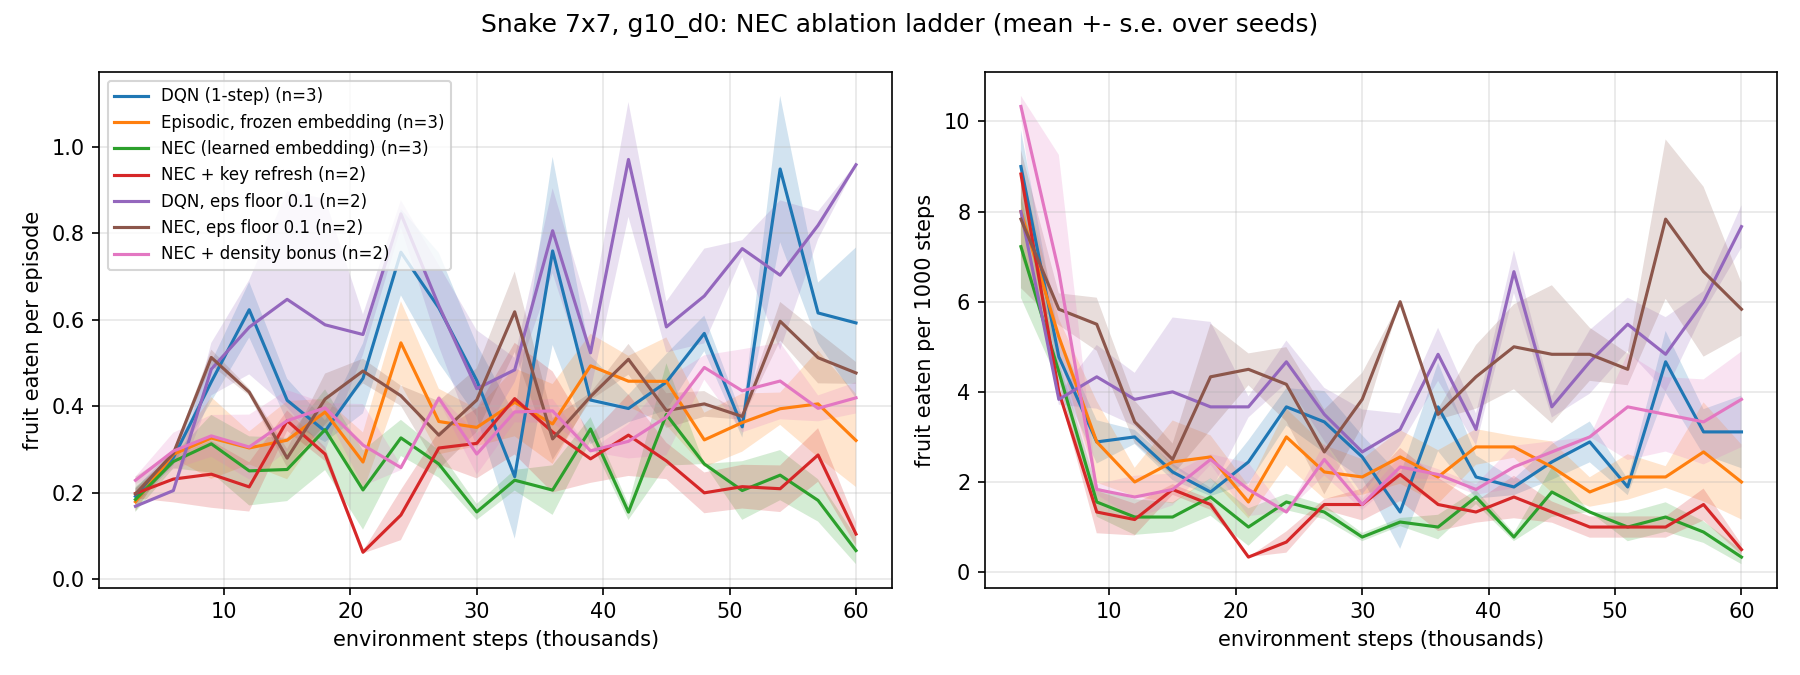
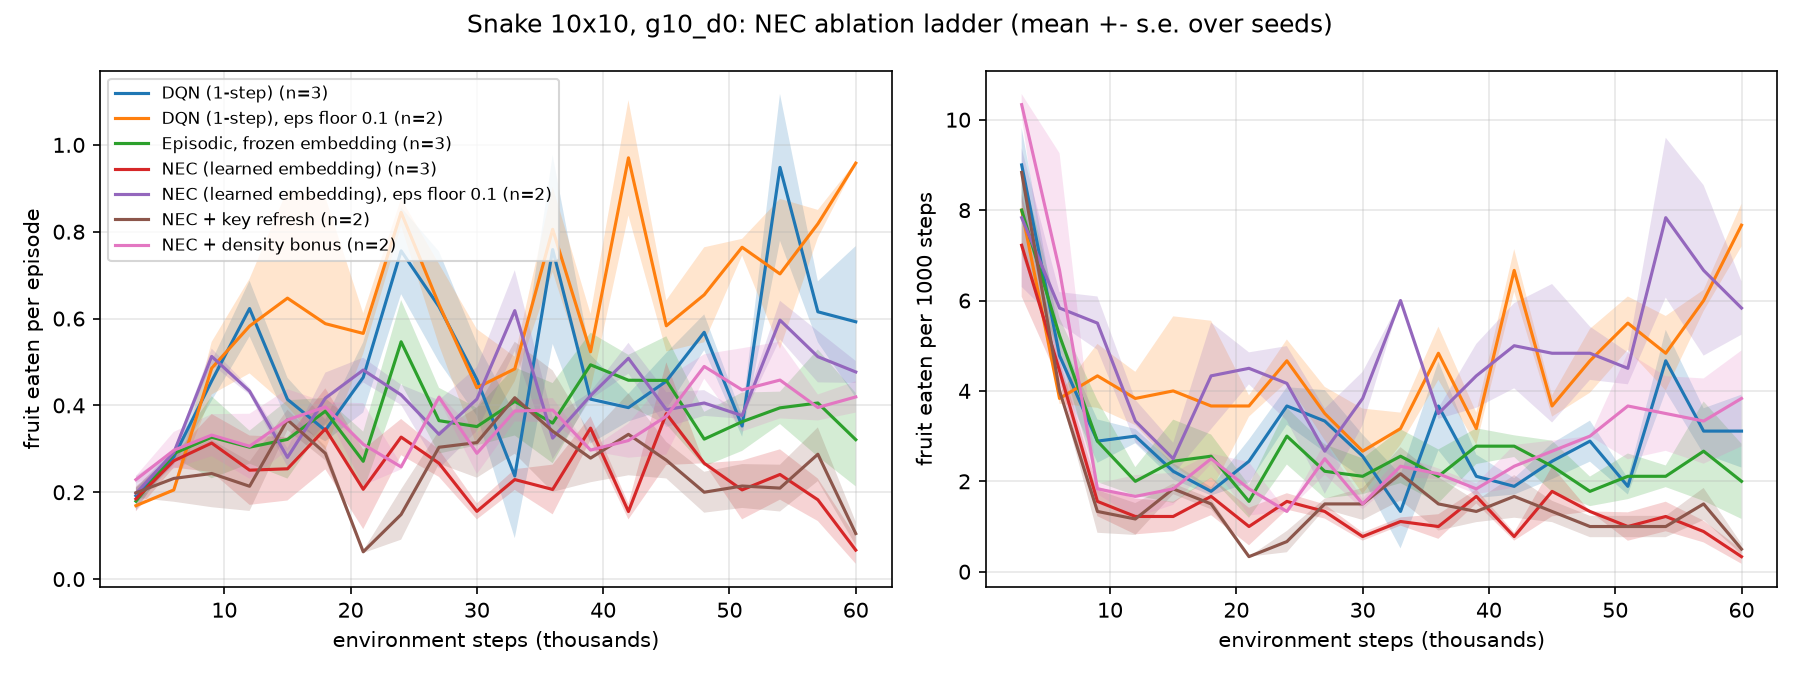
Replace _eps10 agent-name suffix with an explicit --eps-floor option
The epsilon floor is a run setting, not part of the agent, so it no
longer rides on the agent name. snake-run takes --eps-floor, the JSON
records eps_floor, and a non-default floor is tagged in the filename
(nec_eps0.1_s1.json). snake-plot groups runs by (agent, eps_floor).
The four existing *_eps10 results are migrated to the new naming; their
episodes are unchanged.

diff --git a/src/snake_rl/plot.py b/src/snake_rl/plot.py
@@ -12,12 +12,18 @@ import matplotlib
 matplotlib.use("Agg")
 import matplotlib.pyplot as plt
 
+from snake_rl.run import EPS_FLOOR
+
 # Legend names, also the plotting order. Agents not listed here are plotted after these, under their raw name.
+# Runs are grouped by (agent, eps_floor); a non-default floor is appended to the label.
 LABELS = {"dqn": "DQN (1-step)", "dqn_nstep": "DQN (N-step)",
           "ec_frozen": "Episodic, frozen embedding", "nec": "NEC (learned embedding)",
-          "nec_refresh": "NEC + key refresh",
-          "dqn_eps10": "DQN, eps floor 0.1", "nec_eps10": "NEC, eps floor 0.1",
-          "nec_bonus": "NEC + density bonus"}
+          "nec_refresh": "NEC + key refresh", "nec_bonus": "NEC + density bonus"}
+
+
+def label(agent, eps_floor):
+    name = LABELS.get(agent, agent)
+    return name if eps_floor == EPS_FLOOR else f"{name}, eps floor {eps_floor:g}"
 
 
 def curve(episodes, edges, rate=False):
@@ -46,7 +52,8 @@ def main(DIR="results/d0", out_dir="figures"):
     for f in files:
         d = json.load(open(f))
         if d["steps"] == STEPS:
-            data.setdefault(d["agent"], []).append(
+            key = (d["agent"], d.get("eps_floor", EPS_FLOOR))
+            data.setdefault(key, []).append(
                 (curve(d["episodes"], edges), curve(d["episodes"], edges, True), d["wallclock_s"]))
         else:
             print(f"skipping {f}: {d['steps']} steps != {STEPS}")
@@ -54,18 +61,19 @@ def main(DIR="results/d0", out_dir="figures"):
     fig, axes = plt.subplots(1, 2, figsize=(12, 4.5))
     x = edges[1:] / 1000
     tables = {0: [], 1: []}
-    for name in [n for n in LABELS if n in data] + sorted(set(data) - set(LABELS)):
-        label = LABELS.get(name, name)
+    order = list(LABELS)
+    for key in sorted(data, key=lambda k: (order.index(k[0]) if k[0] in LABELS else len(order), k)):
+        lab = label(*key)
         for k, ax in enumerate(axes):
-            C = np.stack([run[k] for run in data[name]])
+            C = np.stack([run[k] for run in data[key]])
             mu, se = np.nanmean(C, 0), np.nanstd(C, 0) / np.sqrt(len(C))
-            ax.plot(x, mu, label=f"{label} (n={len(C)})")
+            ax.plot(x, mu, label=f"{lab} (n={len(C)})")
             ax.fill_between(x, mu - se, mu + se, alpha=0.2)
             marks = []
             for lo, hi in [(0, STEPS // 8), (STEPS // 8, STEPS // 4), (STEPS // 4, STEPS // 2), (STEPS // 2, STEPS)]:
                 per_seed = np.nanmean(C[:, (edges[1:] > lo) & (edges[1:] <= hi)], 1)
                 marks.append((per_seed.mean(), per_seed.std() / np.sqrt(len(per_seed))))
-            tables[k].append((label, marks, np.mean([r[2] for r in data[name]])))
+            tables[k].append((lab, marks, np.mean([r[2] for r in data[key]])))
     axes[0].set_ylabel("fruit eaten per episode")
     axes[1].set_ylabel("fruit eaten per 1000 steps")
     for ax in axes:
@@ -78,11 +86,12 @@ def main(DIR="results/d0", out_dir="figures"):
     os.makedirs(out_dir, exist_ok=True)
     fig.savefig(f"{out_dir}/learning_curves_{tag}.png", dpi=150)
 
+    w0 = max(30, *(len(lab) for lab, _, _ in tables[0]))
     for k, title in [(0, "fruit / episode"), (1, "fruit / 1000 steps")]:
         print(f"\n{title}")
-        print(f"{'agent':30s} {'1st 1/8':>12} {'2nd 1/8':>12} {'2nd 1/4':>12} {'2nd 1/2':>12} {'wall s':>7}")
+        print(f"{'agent':{w0}s} {'1st 1/8':>12} {'2nd 1/8':>12} {'2nd 1/4':>12} {'2nd 1/2':>12} {'wall s':>7}")
         for lab, m, w in tables[k]:
-            print(f"{lab:30s} " + " ".join(f"{a:6.2f}±{b:4.2f}" for a, b in m) + f" {w:7.0f}")
+            print(f"{lab:{w0}s} " + " ".join(f"{a:6.2f}±{b:4.2f}" for a, b in m) + f" {w:7.0f}")
 
 
 def cli():

diff --git a/src/snake_rl/run.py b/src/snake_rl/run.py
@@ -1,8 +1,8 @@
 """Run one (agent, seed) and save per-episode scores.
 
-usage: snake-run <agent> <seed> <steps> [n_distractor_channels] [grid_size]
+usage: snake-run <agent> <seed> <steps> [n_distractor_channels] [grid_size] [--eps-floor F]
        (or: python -m snake_rl.run ...)
-agents: see snake_rl.agents.AGENTS  (suffix _eps10: epsilon floor 0.1)
+agents: see snake_rl.agents.AGENTS
 """
 import argparse
 import json
@@ -15,22 +15,30 @@ from snake_rl.agents import AGENTS, make_agent
 from snake_rl.env import Snake
 
 
-def epsilon(t, decay=5000, floor=0.02):
+EPS_FLOOR = 0.02
+
+
+def epsilon(t, decay=5000, floor=EPS_FLOOR):
     return max(floor, 1.0 - t / decay)
+
+
+def run_name(name, eps_floor=EPS_FLOOR):
+    """Result file stem (minus seed): the agent name, tagged with any non-default run settings."""
+    return name if eps_floor == EPS_FLOOR else f"{name}_eps{eps_floor:g}"
 
 
 def results_dir(D, size, root="results"):
     return f"{root}/d{D}" if size == 7 else f"{root}/g{size}_d{D}"
 
 
-def main(name, seed, steps, D=0, size=7, root="results"):
+def main(name, seed, steps, D=0, size=7, root="results", eps_floor=EPS_FLOOR):
     rng = np.random.default_rng(seed)
     env = Snake(size=size, seed=seed + 1000, distractors=D)
     agent = make_agent(name, env, rng)
     obs = env.reset()
     log, diag, t0 = [], [], time.time()
     for t in range(1, steps + 1):
-        a = agent.act(obs, epsilon(t, floor=0.1 if name.endswith("_eps10") else 0.02), t)
+        a = agent.act(obs, epsilon(t, floor=eps_floor), t)
         nobs, r, term, trunc = env.step(a)
         agent.observe(obs, a, r, nobs, term, trunc, t)
         obs = nobs
@@ -39,25 +47,27 @@ def main(name, seed, steps, D=0, size=7, root="results"):
             obs = env.reset()
         if t % 6000 == 0 and hasattr(agent, "diagnostics"):
             diag.append((t, agent.diagnostics()))
-    out = {"agent": name, "seed": seed, "steps": steps, "distractors": D, "size": size, "episodes": log, "diagnostics": diag,
+    out = {"agent": name, "seed": seed, "steps": steps, "distractors": D, "size": size,
+           "eps_floor": eps_floor, "episodes": log, "diagnostics": diag,
            "wallclock_s": time.time() - t0}
     out_dir = results_dir(D, size, root)
     os.makedirs(out_dir, exist_ok=True)
-    with open(f"{out_dir}/{name}_s{seed}.json", "w") as f:
+    with open(f"{out_dir}/{run_name(name, eps_floor)}_s{seed}.json", "w") as f:
         json.dump(out, f)
-    print(name, seed, f"{len(log)} eps, {time.time()-t0:.0f}s")
+    print(run_name(name, eps_floor), seed, f"{len(log)} eps, {time.time()-t0:.0f}s")
 
 
 def cli():
     ap = argparse.ArgumentParser(description=__doc__.splitlines()[0])
-    ap.add_argument("agent", help=f"one of {sorted(AGENTS)}, optionally with suffix _eps10")
+    ap.add_argument("agent", help=f"one of {sorted(AGENTS)}")
     ap.add_argument("seed", type=int)
     ap.add_argument("steps", type=int)
     ap.add_argument("distractors", type=int, nargs="?", default=0, help="extra noise channels")
     ap.add_argument("size", type=int, nargs="?", default=7, help="grid size")
+    ap.add_argument("--eps-floor", type=float, default=EPS_FLOOR, help="final epsilon after the decay")
     ap.add_argument("--results", default="results", help="results root directory")
     a = ap.parse_args()
-    main(a.agent, a.seed, a.steps, a.distractors, a.size, a.results)
+    main(a.agent, a.seed, a.steps, a.distractors, a.size, a.results, a.eps_floor)
 
 
 if __name__ == "__main__":

diff --git a/src/snake_rl/agents/__init__.py b/src/snake_rl/agents/__init__.py
@@ -2,7 +2,6 @@
 
 To add an agent, implement the `Agent` interface (see base.py) in a new module and
 register it in AGENTS (and in plot.LABELS for a nicer legend name).
-Any name may be given the suffix `_eps10` at run time to raise the epsilon floor to 0.1.
 """
 from snake_rl.agents.base import Agent
 from snake_rl.agents.dqn import DQNAgent
@@ -23,10 +22,9 @@ AGENTS = {
 
 
 def make_agent(name, env, rng) -> Agent:
-    base = name.removesuffix("_eps10")
-    if base not in AGENTS:
+    if name not in AGENTS:
         raise ValueError(f"unknown agent {name!r}; choose from {sorted(AGENTS)}")
-    return AGENTS[base](env, rng)
+    return AGENTS[name](env, rng)
 
 
 __all__ = ["Agent", "AGENTS", "make_agent", "DQNAgent", "NECAgent"]

diff --git a/tests/test_core.py b/tests/test_core.py
@@ -62,6 +62,9 @@ def test_agent_runs(name):
 
 
 def test_run_writes_results(tmp_path):
-    main("dqn_eps10", 3, 500, D=1, size=6, root=str(tmp_path))
-    d = json.load(open(tmp_path / "g6_d1" / "dqn_eps10_s3.json"))
-    assert d["agent"] == "dqn_eps10" and d["steps"] == 500 and d["episodes"]
+    main("dqn", 3, 500, D=1, size=6, root=str(tmp_path))
+    d = json.load(open(tmp_path / "g6_d1" / "dqn_s3.json"))
+    assert d["agent"] == "dqn" and d["steps"] == 500 and d["eps_floor"] == 0.02 and d["episodes"]
+    main("dqn", 3, 500, D=1, size=6, root=str(tmp_path), eps_floor=0.1)
+    d = json.load(open(tmp_path / "g6_d1" / "dqn_eps0.1_s3.json"))
+    assert d["agent"] == "dqn" and d["eps_floor"] == 0.1

diff --git a/CLAUDE.md b/CLAUDE.md
@@ -24,7 +24,7 @@ Sweeps are plain shell loops over `snake-run`. Their stdout goes in `logs/`, and
 
 ## Architecture
 
-- **Adding an agent:** write a class that satisfies the `Agent` protocol in `agents/base.py` (`act(obs, eps, t)` and `observe(obs, a, r, next_obs, term, trunc, t)`, plus an optional `diagnostics()`). Register a factory `(env, rng) -> agent` in `AGENTS` in `agents/__init__.py`. Variants such as `nec_refresh` are just constructor flags in the registry, not subclasses. The `_eps10` suffix is handled generically: `make_agent` strips it, and `run.py` raises the epsilon floor. `plot.LABELS` sets legend names and plotting order. Unlisted agents are still plotted, under their raw name. `tests/test_core.py::test_agent_runs` automatically smoke-tests every registered agent.
+- **Adding an agent:** write a class that satisfies the `Agent` protocol in `agents/base.py` (`act(obs, eps, t)` and `observe(obs, a, r, next_obs, term, trunc, t)`, plus an optional `diagnostics()`). Register a factory `(env, rng) -> agent` in `AGENTS` in `agents/__init__.py`. Variants such as `nec_refresh` are just constructor flags in the registry, not subclasses. Run settings that are not part of the agent itself (currently `--eps-floor`) belong in `run.py`, not in the agent name. `run.py` stores them in the JSON, and `run_name` tags them in the filename. `plot.py` groups runs by `(agent, eps_floor)`. `plot.LABELS` sets legend names and plotting order. Unlisted agents are still plotted, under their raw name. `tests/test_core.py::test_agent_runs` automatically smoke-tests every registered agent.
 - `run.py` owns the training loop. It owns the epsilon schedule (1 → floor over 5k steps), the RNG seeding (agent rng = `seed`, env rng = `seed + 1000`), episode logging as `(t, score)`, and `diagnostics()` every 6000 steps. Exploration happens inside `agent.act`, so the order in which an agent draws from `rng` determines reproducibility.
 - `nn.py`: `MLP.backward` uses the activations cached by the most recent `forward`, so never call `forward` again between a forward and its backward. NEC's `act` caches the embedding in `self._h` for `observe`, so those two calls must stay paired.
 - `returns.py`: `NStep` produces `(payload, G, boot_obs, disc)` tuples, and every agent forms its target as `G + disc * max Q(boot_obs)`. `disc=0` only on true termination. Truncation still bootstraps.
@@ -35,7 +35,7 @@ Sweeps are plain shell loops over `snake-run`. Their stdout goes in `logs/`, and
   - `refresh_every` stores the raw observations behind each key so that all keys can be re-embedded.
   - `bonus_beta` changes only action selection.
 - `env.py`: the observation is flattened `(3 + D) × n × n` binary channels (head, body, food, then D channels of i.i.d. noise resampled every step). Actions are relative (straight, right, left). An episode is truncated after `2·n²` steps without eating.
-- Results JSON carries `agent`, `seed`, `steps`, `distractors`, `size`, `episodes`, `diagnostics`, and `wallclock_s`. The output directory is `results/d{D}` for 7×7 grids, otherwise `results/g{size}_d{D}`. Older JSONs in `results/d0` and `results/d4` lack `distractors` and `size`.
+- Results JSON carries `agent`, `seed`, `steps`, `distractors`, `size`, `eps_floor`, `episodes`, `diagnostics`, and `wallclock_s`. The output directory is `results/d{D}` for 7×7 grids, otherwise `results/g{size}_d{D}`. Older JSONs may lack `distractors`, `size`, or `eps_floor`. Readers fall back to 0, 7, and 0.02 respectively.
 
 ## Gotchas
 

diff --git a/README.md b/README.md
@@ -44,6 +44,7 @@ kd-trees, Adam/SGD instead of RMSProp, N=50 instead of 100, DND capacity 2e4 per
 - 4th/5th run args: distractor channels, grid size (results/d{D} for 7x7, results/g{size}_d{D} otherwise).
 - `nec_refresh`: re-embeds all DND keys with the current encoder every 1000 steps (not in paper).
 - `nec_bonus`: density bonus beta*log(dbar_a / min_b dbar_b) when acting (not in paper).
-- suffix `_eps10`: epsilon floor 0.1 instead of 0.02.
+- `--eps-floor F`: final epsilon (default 0.02). A non-default floor is recorded as `eps_floor` in the JSON,
+  tagged in the filename (`nec_eps0.1_s1.json`) and in the plot label.
 - NEC runs log per-action DND diagnostics (appends, exact updates, evictions, value stats) every 6k steps.
 - `snake-peek <json...>`: per-seed curves in 6k-step bins + per-action write shares.
